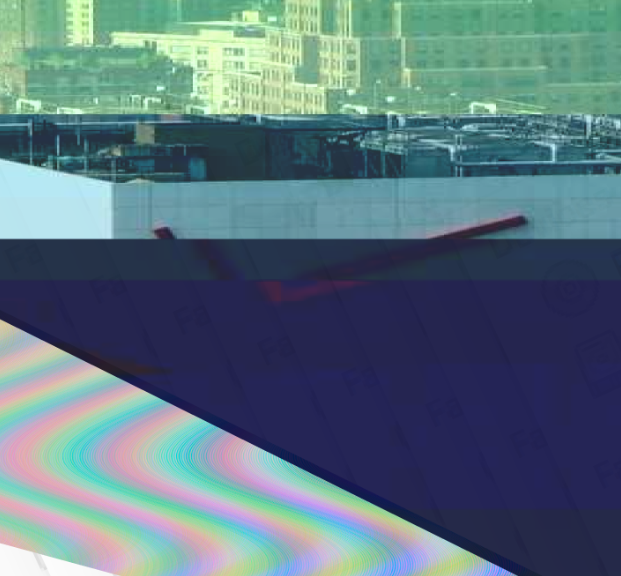
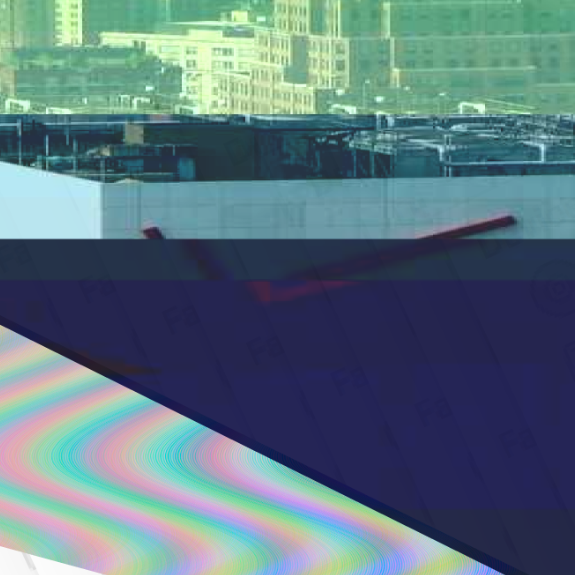
adding spin effects to desktop

diff --git a/css/global.css b/css/global.css
@@ -109,6 +109,23 @@ a.project {
 	width: 150px;
 	height: auto;
 	opacity: .5;
+	animation-name: spin;
+  animation-duration: 5000ms;
+  animation-iteration-count: infinite;
+  animation-timing-function: linear; 
+  /* transform: rotate(3deg); */
+   /* transform: rotate(0.3rad);/ */
+   /* transform: rotate(3grad); */ 
+   /* transform: rotate(.03turn);  */
+}
+
+@keyframes spin {
+    from {
+        transform:rotate(0deg);
+    }
+    to {
+        transform:rotate(360deg);
+    }
 }
 
 .project-details {
